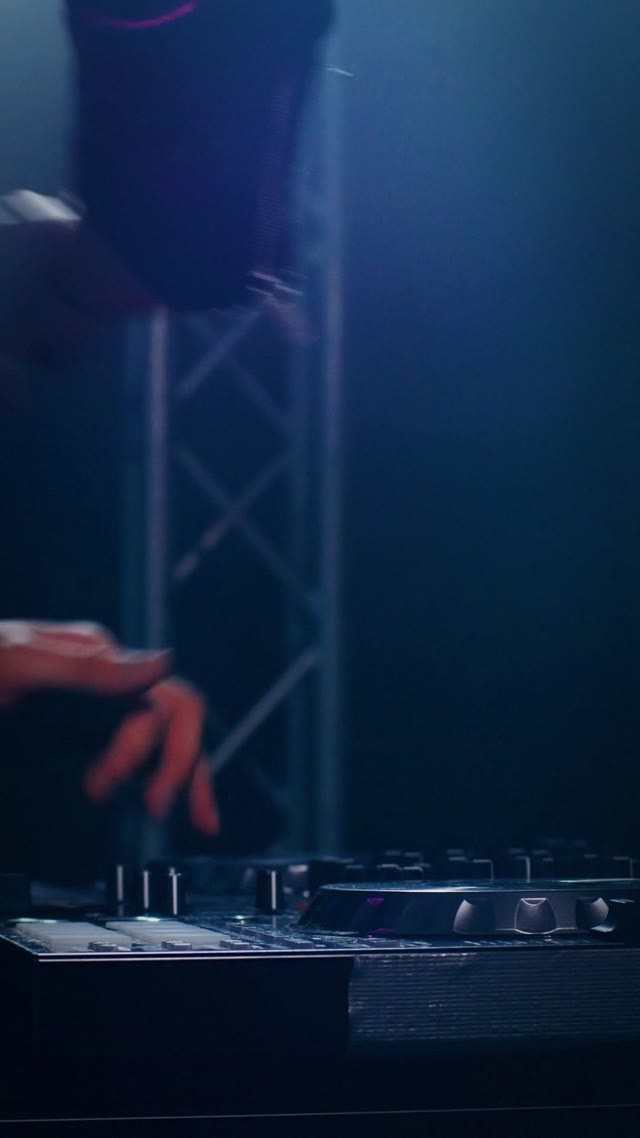
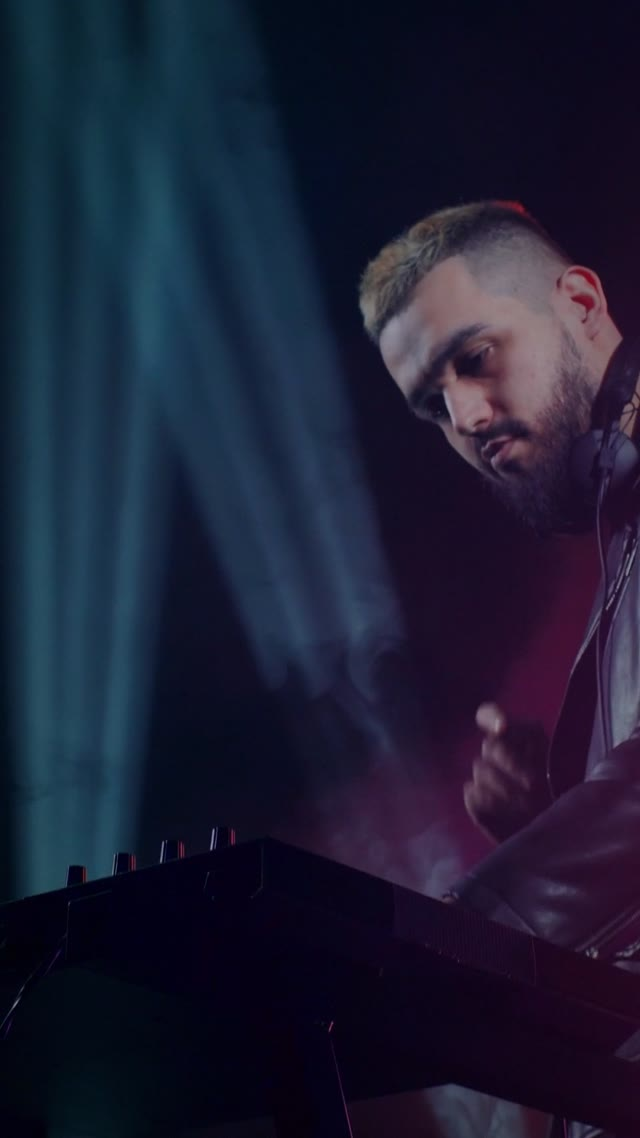
Polish hero scale, cinemascope player, frames

diff --git a/index.html b/index.html
@@ -58,21 +58,21 @@ nav a.link:hover{color:var(--ink)}
 .bar .btn{height:40px;padding:0 18px;font-size:13px}
 
 /* hero */
-.hero{position:relative;min-height:100svh;display:flex;align-items:center;padding:112px 0 72px}
+.hero{position:relative;min-height:100svh;display:flex;align-items:center;padding:96px 0 56px}
 .hero::after{content:"";position:absolute;left:0;right:0;bottom:0;height:1px;background:var(--line)}
-.hero-grid{display:grid;grid-template-columns:1.12fr .88fr;gap:64px;align-items:center}
-.eyebrow{display:flex;align-items:center;gap:12px;color:var(--mute);margin-bottom:30px}
+.hero-grid{display:grid;grid-template-columns:1.28fr .72fr;gap:56px;align-items:center}
+.eyebrow{display:flex;align-items:center;gap:12px;color:var(--mute);margin-bottom:26px}
 .dot{width:8px;height:8px;border-radius:50%;background:var(--mag);box-shadow:0 0 14px var(--mag);animation:pulse 2.4s ease-in-out infinite}
 @keyframes pulse{50%{opacity:.35}}
-h1{font-family:var(--serif);font-weight:400;font-size:clamp(46px,6.3vw,98px);line-height:.96;letter-spacing:-.012em}
+h1{font-family:var(--serif);font-weight:400;font-size:clamp(42px,min(5.5vw,10.6svh),94px);line-height:.96;letter-spacing:-.012em}
 h1 em{color:var(--ink);display:block;background:linear-gradient(92deg,#F3D9B5 0%,#EDE3D1 40%,#BFEFF5 100%);-webkit-background-clip:text;background-clip:text;color:transparent}
-.lead{margin-top:30px;max-width:520px;font-size:19px;color:var(--mute)}
-.ctas{display:flex;flex-wrap:wrap;gap:14px;margin-top:40px}
-.facts{display:grid;grid-template-columns:repeat(3,auto);justify-content:start;gap:0 44px;margin-top:64px;padding-top:26px;border-top:1px solid var(--line)}
+.lead{margin-top:26px;max-width:520px;font-size:19px;color:var(--mute)}
+.ctas{display:flex;flex-wrap:wrap;gap:14px;margin-top:34px}
+.facts{display:grid;grid-template-columns:repeat(3,auto);justify-content:start;gap:0 44px;margin-top:clamp(36px,6svh,60px);padding-top:24px;border-top:1px solid var(--line)}
 .facts dt{color:var(--dim);font-size:11px;font-weight:600;letter-spacing:.26em;text-transform:uppercase}
 .facts dd{margin-top:6px;font-size:15px}
 
-.reel{position:relative;justify-self:center;width:min(100%,calc(min(78svh,760px) * 9 / 16))}
+.reel{position:relative;justify-self:center;width:min(100%,calc(min(76svh,760px) * 9 / 16))}
 .reel::before{content:"";position:absolute;inset:-14% -22%;z-index:-1;filter:blur(60px);opacity:.55;
   background:radial-gradient(40% 35% at 25% 20%,rgba(255,45,135,.55),transparent 70%),radial-gradient(45% 40% at 80% 85%,rgba(32,227,255,.45),transparent 70%)}
 .frame{position:relative;aspect-ratio:9/16;border-radius:22px;overflow:hidden;background:#000;box-shadow:0 40px 90px -30px rgba(0,0,0,.9),0 0 0 1px rgba(237,227,209,.12)}
@@ -98,7 +98,7 @@ section.block{padding:130px 0}
 .sec-head h2{font-family:var(--serif);font-weight:400;font-size:clamp(40px,5vw,72px);line-height:1}
 .sec-head .label{color:var(--dim)}
 
-.project{padding-bottom:120px;margin-bottom:120px;border-bottom:1px solid var(--line)}
+.project{padding-bottom:100px;margin-bottom:100px;border-bottom:1px solid var(--line)}
 .project:last-child{margin-bottom:0;border-bottom:0;padding-bottom:0}
 .p-top{display:flex;align-items:baseline;gap:22px;margin-bottom:28px;flex-wrap:wrap}
 .num{font-size:13px;font-weight:600;letter-spacing:.2em;color:var(--dim)}
@@ -110,7 +110,7 @@ section.block{padding:130px 0}
 
 .player{position:relative;overflow:hidden;border-radius:16px;background:#000;box-shadow:0 0 0 1px rgba(237,227,209,.1)}
 .player video{width:100%;height:100%;object-fit:cover}
-.player.wide{aspect-ratio:16/9}
+.player.wide{aspect-ratio:2.39/1}
 .player.tall{aspect-ratio:9/16}
 .play{position:absolute;inset:0;display:flex;flex-direction:column;align-items:center;justify-content:center;gap:16px;background:linear-gradient(180deg,rgba(10,9,11,0) 40%,rgba(10,9,11,.55));transition:opacity .35s}
 .play .ring{width:84px;height:84px;border-radius:50%;display:grid;place-items:center;background:rgba(237,227,209,.14);backdrop-filter:blur(10px);-webkit-backdrop-filter:blur(10px);box-shadow:0 0 0 1px rgba(237,227,209,.35);transition:transform .25s,background .25s}
@@ -136,7 +136,7 @@ section.block{padding:130px 0}
 .split p{font-size:19px;color:var(--mute)}
 .split p strong{color:var(--ink);font-weight:500}
 .split .meta{margin-top:40px;padding-top:30px;border-top:1px solid var(--line)}
-.frames.tall{grid-template-columns:repeat(3,1fr);margin-top:46px}
+.frames.tall{grid-template-columns:repeat(3,1fr);margin-top:46px;max-width:540px}
 .frames.tall img{aspect-ratio:9/16}
 
 /* approach */
@@ -289,7 +289,7 @@ footer{border-top:1px solid var(--line)}
           </dl>
         </div>
         <div class="frames cine rv">
-          <img src="assets/img/tsh-frame-01.jpg" alt="Still: ice dropped into a crystal mixing glass" loading="lazy">
+          <img src="assets/img/tsh-frame-01.jpg" alt="Still: bartender serving guests across the bar" loading="lazy">
           <img src="assets/img/tsh-frame-02.jpg" alt="Still: bartender stirring an amber cocktail" loading="lazy">
           <img src="assets/img/tsh-frame-03.jpg" alt="Still: orange peel garnish over the glass" loading="lazy">
         </div>
@@ -315,8 +315,8 @@ footer{border-top:1px solid var(--line)}
             <dt>Mix</dt><dd>−14 LUFS · mobile playback</dd>
           </dl>
           <div class="frames tall rv">
-            <img src="assets/img/had-frame-01.jpg" alt="Still: DJ hands on the mixer under neon" loading="lazy">
-            <img src="assets/img/had-frame-02.jpg" alt="Still: crowd silhouettes under stage beams" loading="lazy">
+            <img src="assets/img/had-frame-01.jpg" alt="Still: DJ lifting the crowd under purple light" loading="lazy">
+            <img src="assets/img/had-frame-02.jpg" alt="Still: hands up under blue stage beams" loading="lazy">
             <img src="assets/img/had-frame-03.jpg" alt="Still: DJ raising an arm to the crowd" loading="lazy">
           </div>
         </div>
